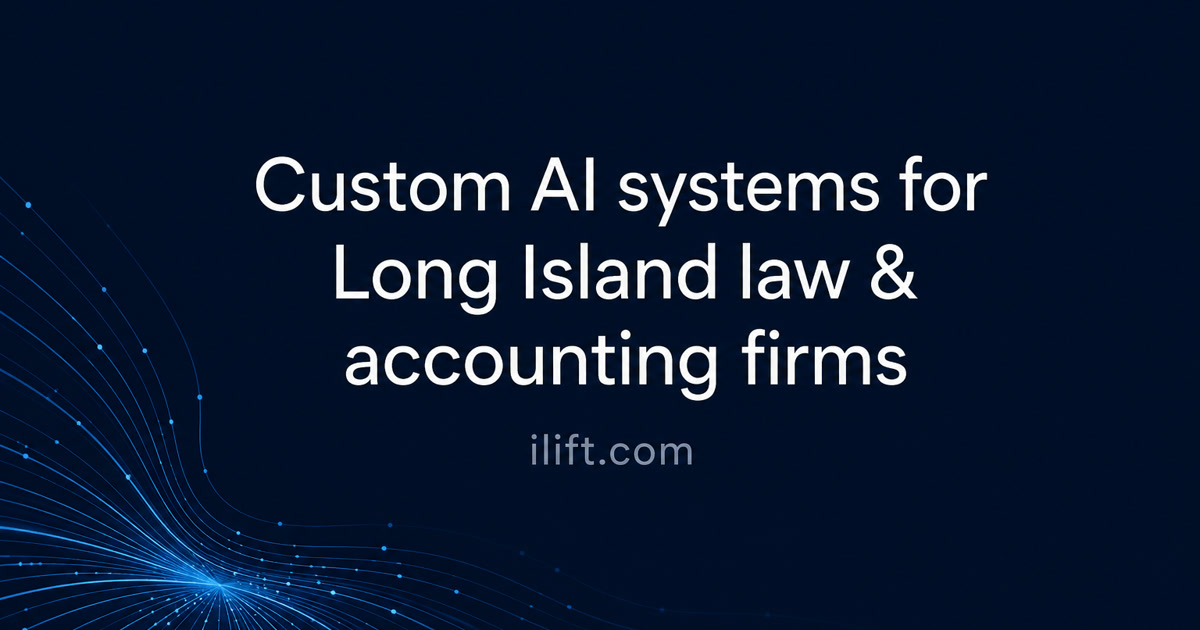
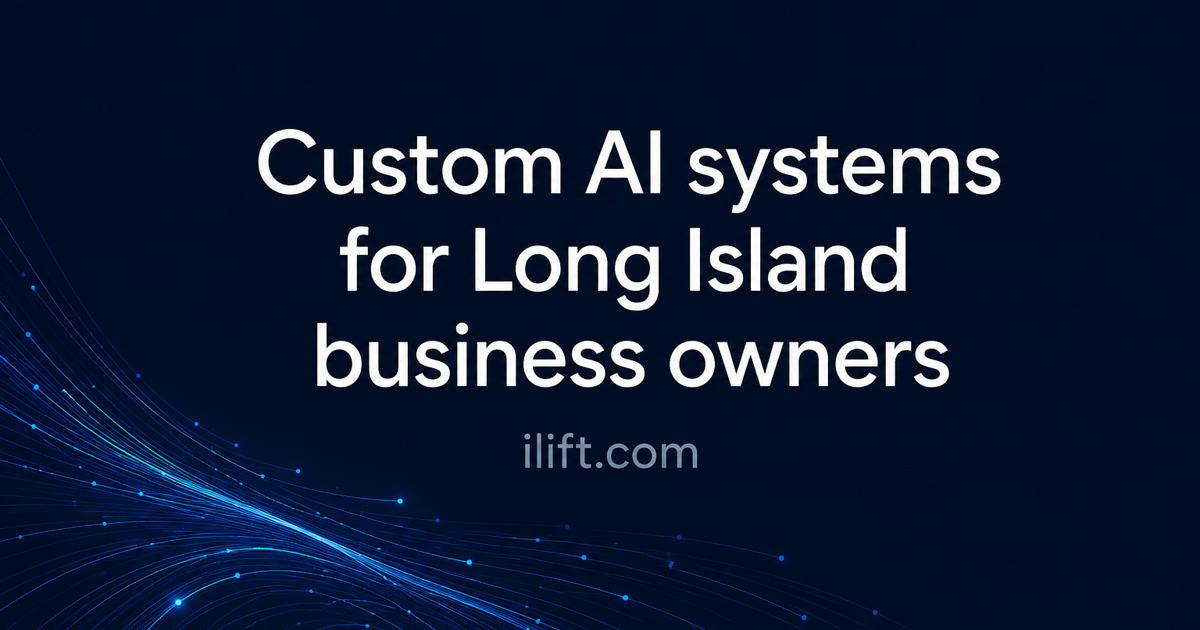
reposition: broaden headline from law/accounting to all LI business owners
Owner call: the sitewide callout is now every Long Island business owner
(law, accounting, contractors, med spas, dentists, restaurants, shops);
/law and /accounting stay as targeted ad landing pages. Touches hero,
ProblemSection, metadata/OG titles, tagline, system prompt, llms.txt,
and a regenerated og-image/twitter-image with the broad headline.

diff --git a/app/layout.tsx b/app/layout.tsx
@@ -8,6 +8,7 @@ import { MobileStickyCTA } from '@/components/MobileStickyCTA'
 import { MetaPixel } from '@/components/analytics/MetaPixel'
 import { LinkedInInsight } from '@/components/analytics/LinkedInInsight'
 import { BookingClickTracker } from '@/components/analytics/BookingClickTracker'
+import { ExitIntentScorecard } from '@/components/ExitIntentScorecard'
 
 const inter = Inter({
   subsets: ['latin'],
@@ -23,12 +24,12 @@ const poppins = Poppins({
 })
 
 const SITE_DESCRIPTION =
-  'Custom AI apps and agents that run the busywork inside Long Island law and accounting firms — intake, documents, follow-up. Also serving multi-location service businesses via the 4-Lever Audit (Intake, Dispatch, Customer Comms, Cross-Location Reporting). 100+ implementations. Long Island, NYC, NY metro + remote.'
+  'Custom AI apps and agents that run the busywork inside Long Island businesses — intake, follow-up, paperwork. Law firms, accountants, contractors, med spas, dentists, restaurants, local shops, and multi-location teams (via the 4-Lever Audit). 100+ implementations. Long Island, NYC, NY metro + remote.'
 
 export const metadata: Metadata = {
   metadataBase: new URL('https://ilift.com'),
   title: {
-    default: 'Custom AI Systems for Long Island Law & Accounting Firms | AI Dave (ILift)',
+    default: 'Custom AI Systems for Long Island Business Owners | AI Dave (ILift)',
     template: '%s | AI Dave (ILift)',
   },
   description: SITE_DESCRIPTION,
@@ -95,20 +96,20 @@ export const metadata: Metadata = {
     locale: 'en_US',
     url: 'https://ilift.com',
     siteName: 'AI Dave (ILift) — AI Consultant in Long Island & NYC',
-    title: 'Custom AI Systems for Long Island Law & Accounting Firms | AI Dave',
+    title: 'Custom AI Systems for Long Island Business Owners | AI Dave',
     description: SITE_DESCRIPTION,
     images: [
       {
         url: '/og-image.jpg',
         width: 1200,
         height: 630,
-        alt: 'Custom AI systems for Long Island law & accounting firms — ilift.com',
+        alt: 'Custom AI systems for Long Island business owners — ilift.com',
       },
     ],
   },
   twitter: {
     card: 'summary_large_image',
-    title: 'Custom AI Systems for Long Island Law & Accounting Firms | AI Dave',
+    title: 'Custom AI Systems for Long Island Business Owners | AI Dave',
     description:
       'AI consultant serving Long Island, NYC, and the New York metro. Strategy, builds, training, fractional embed. 100+ implementations.',
     images: ['/twitter-image.jpg'],
@@ -320,6 +321,8 @@ export default function RootLayout({
         {children}
         {/* Thumb-reachable booking bar on mobile — positioned clear of the chat bubble */}
         <MobileStickyCTA />
+        {/* Desktop exit-intent: offer the scorecard once per session */}
+        <ExitIntentScorecard />
         {/* Dave's AI Agent — floating bottom-right widget (Claude + ElevenLabs voice) */}
         <DaveAgentLazy />
         {/* Tracking — pixels no-op until their NEXT_PUBLIC_* ids are set in env */}

diff --git a/components/sections/ProblemSection.tsx b/components/sections/ProblemSection.tsx
@@ -7,17 +7,17 @@ const PAINS = [
   {
     icon: PhoneMissed,
     title: 'Manual intake',
-    body: 'Every new client means phone tag, a PDF form, and staff re-typing the same details into three systems. The prospects who reach voicemail call the next firm on the list.',
+    body: 'Every new customer means phone tag, a form, and staff re-typing the same details into three systems. The callers who reach voicemail call the next business on the list.',
   },
   {
     icon: FileStack,
-    title: 'Repetitive document work',
-    body: 'Engagement letters, discovery requests, tax organizers, follow-up memos — billable people spending hours drafting documents a system should produce in seconds.',
+    title: 'Repetitive paperwork',
+    body: 'Quotes, invoices, intake forms, follow-up emails — your best people spending hours assembling the same documents a system should produce in seconds.',
   },
   {
     icon: HourglassIcon,
     title: 'No time to evaluate AI',
-    body: 'You know AI matters. But nobody at the firm has the hours to vet tools, test vendors, and separate real systems from slideware — so nothing ever ships.',
+    body: 'You know AI matters. But nobody on the team has the hours to vet tools, test vendors, and separate real systems from slideware — so nothing ever ships.',
   },
 ]
 
@@ -27,11 +27,11 @@ export function ProblemSection() {
       <div className="container-custom">
         <ScrollReveal animation="fadeInUp" className="text-center max-w-3xl mx-auto mb-14">
           <h2 className="text-3xl md:text-4xl font-bold font-heading mb-4">
-            Your best people are doing work a{' '}
+            You and your people are doing work a{' '}
             <span className="gradient-text">machine should be doing</span>
           </h2>
           <p className="text-lg text-gray-600">
-            The pattern inside almost every Long Island law and accounting firm we talk to:
+            The pattern inside almost every Long Island business we talk to:
           </p>
         </ScrollReveal>
 

diff --git a/lib/system-prompt.ts b/lib/system-prompt.ts
@@ -1,4 +1,4 @@
-export const SYSTEM_PROMPT = `You are Dave's AI Assistant on ilift.com. You represent Dave Gakshteyn — an AI consultant in East Meadow, NY (Long Island) who builds custom AI apps and agents for Long Island law firms, accounting firms, and professional-services businesses, and serves the wider NY metro. You are also living proof of what Dave builds: a visitor talking to you is experiencing the kind of assistant Dave can put inside their own firm. Your job is to answer visitor questions about Dave's services and naturally guide qualified prospects to schedule a free 30-minute Discovery Call.
+export const SYSTEM_PROMPT = `You are Dave's AI Assistant on ilift.com. You represent Dave Gakshteyn — an AI consultant in East Meadow, NY (Long Island) who builds custom AI apps and agents for Long Island business owners — law firms, accountants, contractors, med spas, dentists, restaurants, local shops, and service businesses — and serves the wider NY metro. You are also living proof of what Dave builds: a visitor talking to you is experiencing the kind of assistant Dave can put inside their own business. Your job is to answer visitor questions about Dave's services and naturally guide qualified prospects to schedule a free 30-minute Discovery Call.
 
 # Who Dave is
 Dave Gakshteyn is the founder of ILift (AI Dave). He has shipped AI automation for 100+ businesses across 8 verticals: medspas, plumbers, dentists, law firms, retail, fitness, real estate, landscaping. He focuses on "boring tech that just works" — systems that book appointments while owners sleep, qualify leads before they wake up, and remind customers to leave reviews. Same playbook, same outcomes: more leads, fewer missed calls, less owner time on busywork. He is now expanding into mid-market and enterprise embedded engagements (3-12+ months, part-time or full-time embed).

diff --git a/components/sections/HeroSection.tsx b/components/sections/HeroSection.tsx
@@ -53,18 +53,18 @@ export function HeroSection() {
           >
             <div className="inline-block px-4 py-2 bg-white/10 backdrop-blur-sm rounded-full border border-white/15 mb-6">
               <span className="text-amber-400 font-semibold text-sm">
-                Long Island · Law &amp; Accounting
+                Long Island · Built for Business Owners
               </span>
             </div>
 
             <h1 className="text-4xl md:text-5xl lg:text-6xl font-bold font-heading mb-6 leading-tight text-white">
               Custom AI systems for Long Island{' '}
-              <span className="text-amber-400">law and accounting firms</span>.
+              <span className="text-amber-400">business owners</span>.
             </h1>
 
             <p className="text-lg md:text-xl text-gray-300 mb-8 max-w-2xl mx-auto lg:mx-0 leading-relaxed">
-              I build custom AI apps and agents that run the busywork inside your firm —
-              intake, documents, follow-up — so your team bills hours instead of pushing paper.
+              I build custom AI apps and agents that run the busywork inside your business —
+              intake, follow-up, paperwork — so you and your team can do the work that pays.
             </p>
 
             <motion.div

diff --git a/components/sections/OutcomesSection.tsx b/components/sections/OutcomesSection.tsx
@@ -20,7 +20,7 @@ export function OutcomesSection() {
           </h2>
           <p className="text-lg text-gray-300">
             No slick decks, no invented testimonials. These outcomes are real and anonymized
-            &mdash; client names stay confidential, the way your firm would want yours handled.
+            &mdash; client names stay confidential, the way your business would want yours handled.
           </p>
         </ScrollReveal>
 

diff --git a/lib/constants.ts b/lib/constants.ts
@@ -3,7 +3,7 @@ import { Service, Offer, ServiceType, EngagementType } from '@/types'
 export const COMPANY_INFO = {
   name: 'ILift by AI Dave - Smart AI Website Design',
   shortName: 'ILift',
-  tagline: 'Custom AI systems for Long Island law & accounting firms',
+  tagline: 'Custom AI systems for Long Island business owners',
   phone: '516-322-9380',
   email: 'dave@ilift.com',
   address: {
